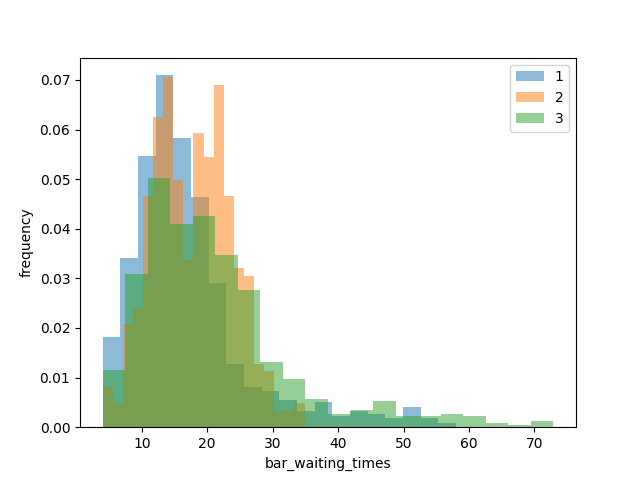
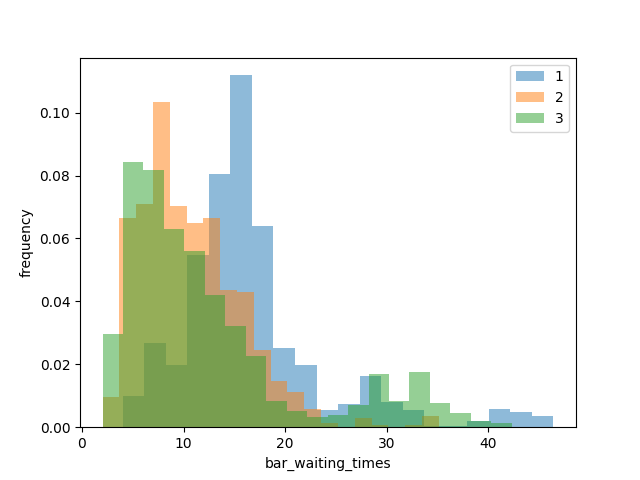
graphhelp

diff --git a/analyzer.py b/analyzer.py
@@ -133,22 +133,26 @@ class analyzer:
         )  # バー待ち人数の最大値を出力
 
 
-def draw_regi_waiting_time_histogram(
-    list, filename
-):  # レジ待ち時間のヒストグラムを描画
-    plt.hist(list, bins=20)
-    plt.xlabel("regi_waiting_times")
-    plt.ylabel("frequency")
+# def draw_regi_waiting_time_histogram(
+#     list, filename
+# ):  # レジ待ち時間のヒストグラムを描画
+#     plt.hist(list, bins=20)
+#     plt.xlabel("regi_waiting_times")
+#     plt.ylabel("frequency")
 
-    # plt.show()
-    plt.savefig("analyze_result/" + filename + "_regi_waiting_times.png")
+#     # plt.show()
+#     plt.savefig("analyze_result/" + filename + "_regi_waiting_times.png")
 
 
-def draw_bar_waiting_time_histogram(list):  # バー待ち時間のヒストグラムを描画
-    plt.hist(list, bins=20)
-    plt.xlabel("bar_waiting_times")
-    plt.ylabel("frequency")
-    plt.show()
+# def draw_bar_waiting_time_histogram(
+#     list, filename
+# ):  # レジ待ち時間のヒストグラムを描画
+#     plt.hist(list, bins=20)
+#     plt.xlabel("bar_waiting_times")
+#     plt.ylabel("frequency")
+
+#     # plt.show()
+#     plt.savefig("analyze_result/" + filename + "_bar_waiting_times.png")
 
 
 def draw_all_waiting_time_histogram(list):  # 全待ち時間のヒストグラムを描画
@@ -232,6 +236,22 @@ def draw_bar_waiting_time_histogram(
     plt.savefig("analyze_result/bar_waiting_times.png")
 
 
+def draw_regi_waiting_time_histogram(
+    data_dict,
+):  # バー待ち時間のヒストグラムを描画. data_dictは{discretion_level: [bar_waiting_times]}の形式
+    # data_dictのキーごとに色分けし、分布図を描画
+    # data_dictのvalueはリスト。
+    # y軸はリスト内の要素の数ではなく,0-1の間で正規化したリスト内頻度
+
+    for key, value in data_dict.items():
+        plt.hist(value, bins=20, alpha=0.5, label=key, density=True)
+    plt.xlabel("regi_waiting_times")
+    plt.ylabel("frequency")
+    plt.legend()
+
+    plt.savefig("analyze_result/regi_waiting_times.png")
+
+
 def main():
     # log_file_path = get_log_file_path()  # コマンドライン引数からlogファイルのパスを取得
     # analyzer1 = analyzer(log_file_path)  # logファイルを解析するためのインスタンスを生成
@@ -251,10 +271,10 @@ def main():
         ["20240326_165507_kento_tokura.json", 2],
         ["yuta_matusita_20240327_161356.json", 2],
         ["亀田あずさ_20240327_135457.json", 1],
-        # ["20240326_152249_かなでさん.json", 2],
-        # ["20240323_163556_kiyo furukawa (2).json", 1],
-        # ["20240323_123243_hamana shodai.json", 3],
-        # ["20240325_224219_sigenobu.json", 3],
+        ["20240326_152249_かなでさん.json", 2],
+        ["20240323_163556_kiyo furukawa (2).json", 1],
+        ["20240323_123243_hamana shodai.json", 3],
+        ["20240325_224219_sigenobu.json", 3],
         # ["20240323_225932_naoko.json", 1],
         # ["20240321_105655_井野千恋莉 (1).json",3],
     ]
@@ -295,10 +315,30 @@ def main():
                     value
                 )  # dict, list以外の場合はappend
 
+    draw_bar_waiting_time_histogram(
+        {
+            "1": analyzed_per_discretion_level["1"]["bar_waiting_times"],
+            "2": analyzed_per_discretion_level["2"]["bar_waiting_times"],
+            "3": analyzed_per_discretion_level["3"]["bar_waiting_times"],
+        }
+    )
+
+    draw_regi_waiting_time_histogram(
+        {
+            "1": analyzed_per_discretion_level["1"]["regi_waiting_times"],
+            "2": analyzed_per_discretion_level["2"]["regi_waiting_times"],
+            "3": analyzed_per_discretion_level["3"]["regi_waiting_times"],
+        }
+    )
+
+
     # discretion_level = 1 の人のレジ待ち時間の平均
     print(np.mean(analyzed_per_discretion_level["1"]["regi_waiting_times"]))
     # discretion_level = 2 の人のレジ待ち時間の平均
     print(np.mean(analyzed_per_discretion_level["2"]["regi_waiting_times"]))
+
+    # drip_meterの平均値を求める
+    print(np.mean([i["average_drip_meter"] for i in analyzed_list]))
 
     # num_of_people_dict[str(discretion_level)].append(
     #     {"from": analyzed["name"], "value": analyzed["num_of_people"]}
@@ -326,8 +366,8 @@ def main():
     #             f"{key}: {type(value)}, {np.shape(value)}"
     #         )  # dict, listのデータは型とshapeを出力
 
-    # draw_regi_waiting_time_histogram(
-    #     analyzed["regi_waiting_times"], analyzed["name"]
+    # draw_bar_waiting_time_histogram(
+    #     analyzed["bar_waiting_times"], analyzed["name"]
     # )
 
     # ヒストグラムを描画
